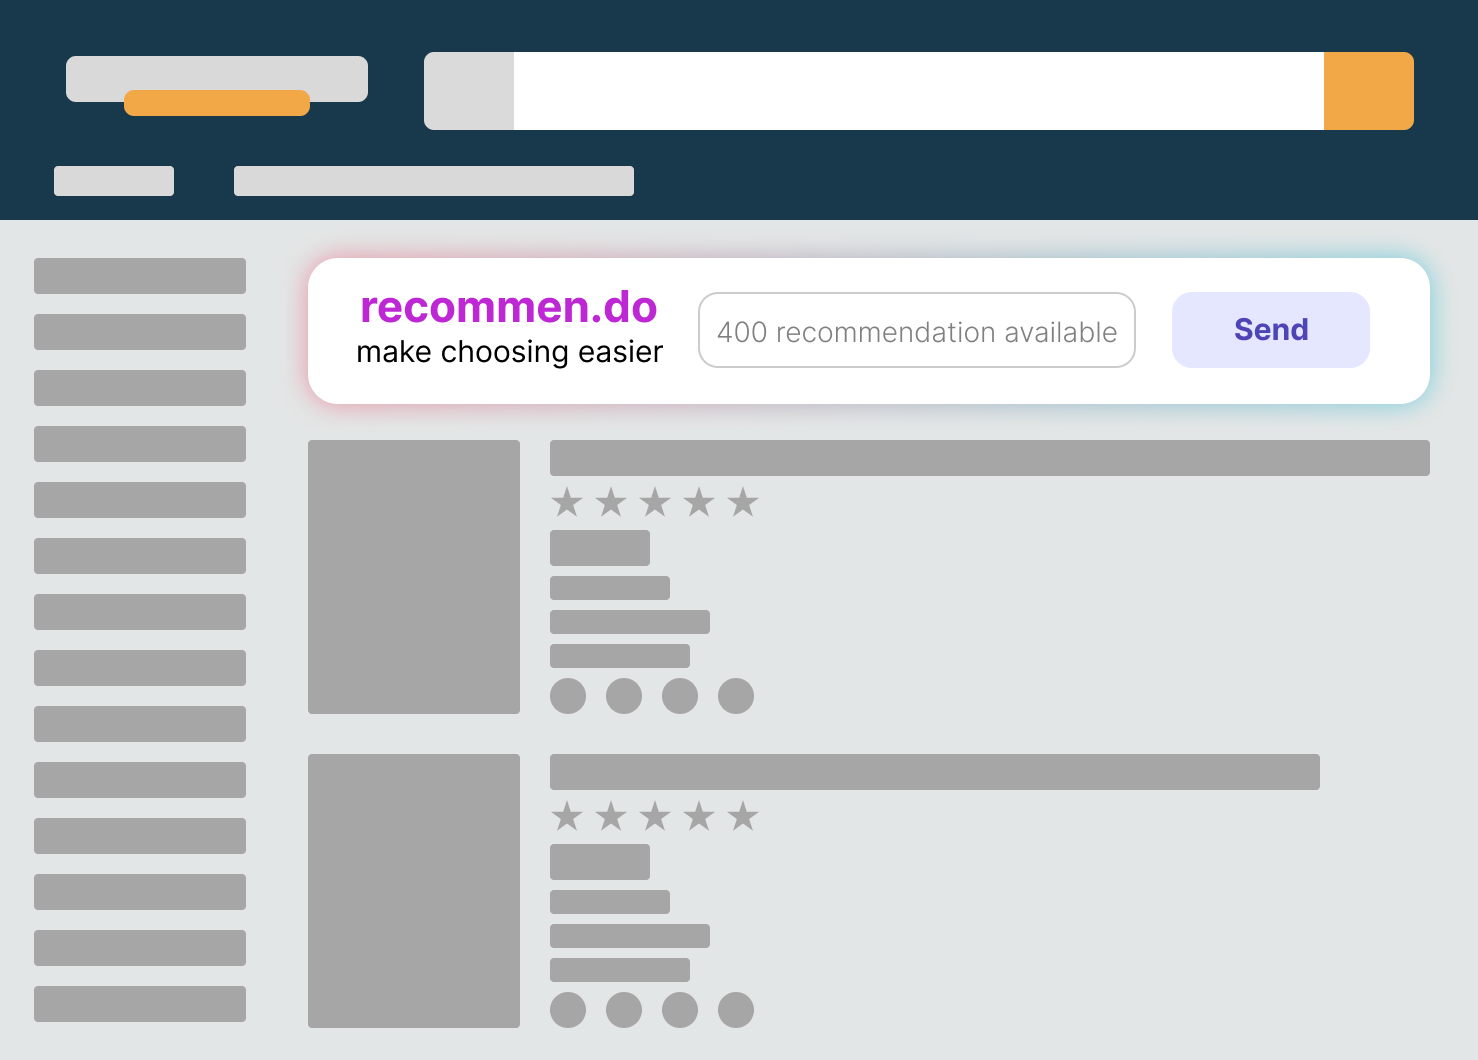
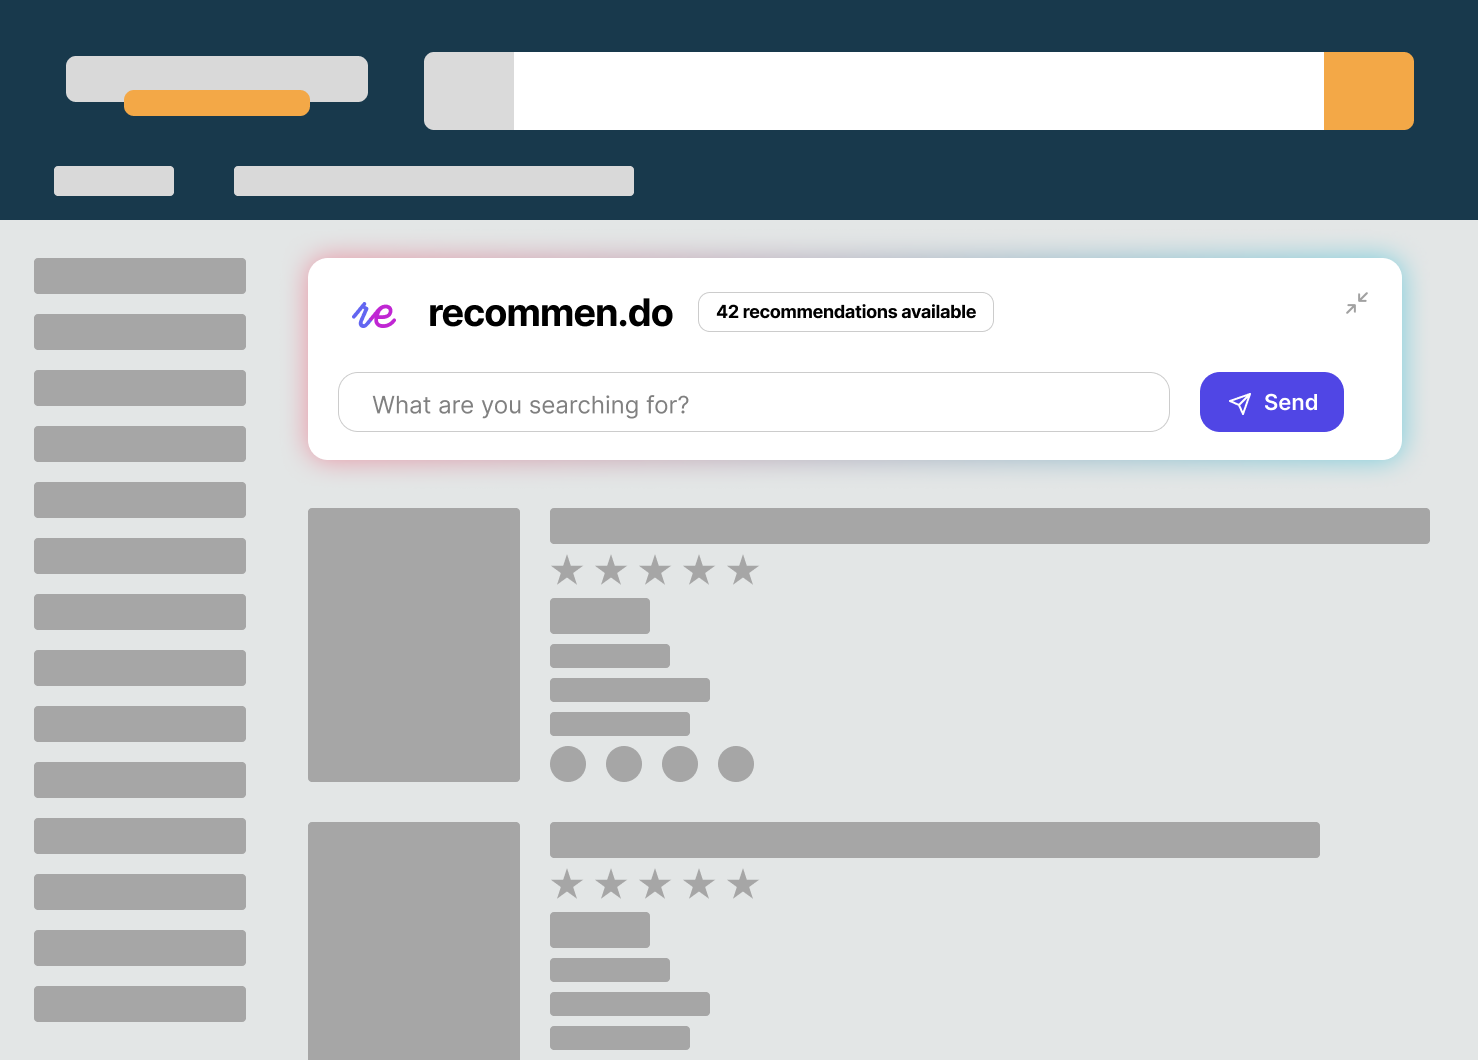
Various small fixers

Changed region(s): [[0.1867, 0.2179, 0.9959, 1.0], [0.2179, 0.2802, 0.747, 0.3425]]

diff --git a/src/app/(mdx)/faq/page.tsx b/src/app/(mdx)/faq/page.tsx
@@ -7,38 +7,36 @@ export default function FAQPage() {
   return (
     <section id="faq_page">
       <div className="mx-auto flex max-w-7xl flex-col gap-y-4 p-4">
-        {/* <FAQ /> */}
-
         <h1 className="text-3xl font-semibold">Frequently Asked Questions</h1>
 
         <Accordion type="single" collapsible className="w-full">
           <AccordionItem value="item-1">
-            <AccordionTrigger>How can I use recommen.do extension?</AccordionTrigger>
+            <AccordionTrigger className="text-left">How can I use recommen.do extension?</AccordionTrigger>
             <AccordionContent>
               To get started with recommen.do, please follow our installation and usage guide. You can find detailed
               instructions{" "}
               <Link href={`${appwriteUrl}/installation`} className="text-primary">
                 here
               </Link>
-              . .
+              .
             </AccordionContent>
           </AccordionItem>
 
           <AccordionItem value="item-2">
-            <AccordionTrigger>
-              What should I do if I exhaust my credits before the end of the current billing cycle?
+            <AccordionTrigger className="text-left">
+              What should I do if I exhaust my recommendations before the end of the current billing cycle?
             </AccordionTrigger>
             <AccordionContent>
-              If you run out of credits before the end of the current billing cycle, don&apos;t worry! You can easily
-              add 50 more recommendations by accessing the &quot;Add 50 more recommendations&quot; option in the usage
-              section of your profile. These additional credits will be valid until the end of your current billing
-              cycle. Alternatively, you can consider upgrading your subscription for the upcoming billing cycle. Just
-              head over to the &quot;Manage subscription&quot; option to modify your plan.
+              If you run out of recommendations before the end of the current billing cycle, don&apos;t worry! You can
+              easily add 50 more recommendations by accessing the &quot;Add 50 more recommendations&quot; option in the
+              usage section of your profile. These additional recommendations will be valid until the end of your
+              current billing cycle. Alternatively, you can consider upgrading your subscription for the upcoming
+              billing cycle. Just head over to the &quot;Manage subscription&quot; option to modify your plan.
             </AccordionContent>
           </AccordionItem>
 
           <AccordionItem value="item-3">
-            <AccordionTrigger>What happens if I delete my account?</AccordionTrigger>
+            <AccordionTrigger className="text-left">What happens if I delete my account?</AccordionTrigger>
             <AccordionContent>
               Deleting your account is a permanent action. Please note that by deleting your account, your active
               subscription will be canceled, and any remaining recommendations will be forfeited.
@@ -46,21 +44,53 @@ export default function FAQPage() {
           </AccordionItem>
 
           <AccordionItem value="item-4">
-            <AccordionTrigger>Do you offer a free trial?</AccordionTrigger>
+            <AccordionTrigger className="text-left">Do you offer a free trial?</AccordionTrigger>
             <AccordionContent>
               Yes, we provide a free trial period for our service. Upon creating an account, you will receive 10
-              complimentary recommendations to explore the features and functionality of our product. These credits can
-              be used during the trial period, which is 30 days.
+              complimentary recommendations to explore the features and functionality of our product. These
+              recommendations can be used during the trial period, which is 30 days.
             </AccordionContent>
           </AccordionItem>
 
           <AccordionItem value="item-5">
-            <AccordionTrigger>Can I cancel my subscription at any time?</AccordionTrigger>
+            <AccordionTrigger className="text-left">Can I cancel my subscription at any time?</AccordionTrigger>
             <AccordionContent>
               Yes, you have the freedom to cancel your subscription at any time. There are no long-term contracts or
               commitments. Simply navigate to the &quot;Manage subscription&quot; section in your profile to cancel your
               subscription. If you decide to cancel your subscription, you will still have access to the remaining
-              credits until the end of the billing cycle.
+              recommendations until the end of the billing cycle.
+            </AccordionContent>
+          </AccordionItem>
+
+          <AccordionItem value="item-6">
+            <AccordionTrigger className="text-left">
+              What happens if I have a subscription active but I switch to API Key mode?
+            </AccordionTrigger>
+            <AccordionContent>
+              While the OpenAI API Key mode is active, the recommendations you consume are not subtracted from your
+              available recommendations. It is not mandatory to have an active subscription if you choose to use your
+              own OpenAI API Key. If you choose so, you can cancel your subscription at any time using the &quot;Manage
+              subscription&quot; option. Alternatively, you can clear your OpenAI API Key and continue using your
+              remaining recommendations.
+            </AccordionContent>
+          </AccordionItem>
+
+          <AccordionItem value="item-7">
+            <AccordionTrigger className="text-left">Can I use my own OpenAI API Key?</AccordionTrigger>
+            <AccordionContent>
+              If you have an OpenAI API key you can get recommendations without having an active subscription. While the
+              OpenAI API Key mode is active, the recommendations you consume are not subtracted from your available
+              recommendations. Use the &quot;OpenAI Api Key&quot; section from the extension to add or clear your OpenAI
+              API Key.
+            </AccordionContent>
+          </AccordionItem>
+
+          <AccordionItem value="item-8">
+            <AccordionTrigger className="text-left">How are recommendations consumed?</AccordionTrigger>
+            <AccordionContent>
+              One recommendation is consumed every time you ask for a recommendation by clicking &quot;Send&quot; in the
+              AI prompt card. At the end of every billing cycle your remaining recommendations expire and new
+              recommendations are added according to your plan.
             </AccordionContent>
           </AccordionItem>
 

diff --git a/src/components/profile/form-apikey.tsx b/src/components/profile/form-apikey.tsx
@@ -2,14 +2,27 @@
 
 import { zodResolver } from "@hookform/resolvers/zod";
 import { useStorage } from "@plasmohq/storage/hook";
+import { useAtomValue } from "jotai";
+import Link from "next/link";
 import { useForm } from "react-hook-form";
 import { z } from "zod";
 
 import { Badge } from "@/components/ui/badge";
 import { Button } from "@/components/ui/button";
+import {
+  Dialog,
+  DialogContent,
+  DialogDescription,
+  DialogFooter,
+  DialogHeader,
+  DialogTitle,
+  DialogTrigger,
+} from "@/components/ui/dialog";
 import { Form, FormControl, FormField, FormItem, FormLabel, FormMessage } from "@/components/ui/form";
 import { Icons } from "@/components/ui/icons";
 import { Input } from "@/components/ui/input";
+import { profileAtom } from "@/lib/atoms/auth";
+import { appwriteUrl } from "@/lib/envClient";
 import { cn } from "@/lib/helpers/utils";
 
 const formSchema = z.object({
@@ -23,6 +36,9 @@ const formSchema = z.object({
 export function FormAPIKey() {
   const [userApiKey, setUserApiKey, { remove }] = useStorage<string>("userApiKey", "");
 
+  const profile = useAtomValue(profileAtom);
+  const hasSubscription = profile ? profile.stripeSubscriptionId !== "none" : false;
+
   // 1. Define your form.
   const form = useForm<z.infer<typeof formSchema>>({
     resolver: zodResolver(formSchema),
@@ -32,10 +48,10 @@ export function FormAPIKey() {
   });
 
   // 2. Define a submit handler.
-  function onSubmit(values: z.infer<typeof formSchema>) {
+  async function onSubmit(values: z.infer<typeof formSchema>) {
     if (!values.userApiKey) return;
 
-    setUserApiKey(values.userApiKey);
+    await setUserApiKey(values.userApiKey);
   }
 
   return (
@@ -76,8 +92,36 @@ export function FormAPIKey() {
             <Icons.remove className="mr-2 h-4 w-4" aria-hidden="true" />
             Remove key
           </Button>
+        ) : hasSubscription ? (
+          <Dialog>
+            <DialogTrigger asChild>
+              <Button type="button" aria-label="Add key" disabled={!form.watch("userApiKey")}>
+                <Icons.key className="mr-2 h-4 w-4" aria-hidden="true" />
+                Add key
+              </Button>
+            </DialogTrigger>
+            <DialogContent className="gap-8">
+              <DialogHeader className="gap-4 text-left">
+                <DialogTitle>Before you proceed</DialogTitle>
+                <DialogDescription>
+                  We have noticed that you have an active subscription. The recommendations you consume using your
+                  OpenAI API Key are not subtracted from your available recommendations. Having an active subscription
+                  is not mandatory in order to use your own OpenAI API Key.
+                </DialogDescription>
+              </DialogHeader>
+              <DialogFooter className="grid grid-cols-2 gap-4">
+                <Button onClick={(...args) => void form.handleSubmit(onSubmit)(...args)}>I understand</Button>
+
+                <Button variant="outline" asChild>
+                  <Link href={`${appwriteUrl}/faq`} target="_blank">
+                    Learn more
+                  </Link>
+                </Button>
+              </DialogFooter>
+            </DialogContent>
+          </Dialog>
         ) : (
-          <Button aria-label="Add key">
+          <Button type="submit" aria-label="Add key" disabled={!form.watch("userApiKey")}>
             <Icons.key className="mr-2 h-4 w-4" aria-hidden="true" />
             Add key
           </Button>

diff --git a/src/app/api/stripe/subscription/[priceId]/route.ts b/src/app/api/stripe/subscription/[priceId]/route.ts
@@ -103,15 +103,10 @@ export async function GET(request: Request, { params }: { params: { priceId: str
         return_url: `${appwriteUrl}/profile`,
       });
 
-      return NextResponse.json(
-        {
-          message: "Stripe billing portal session created.",
-          url: session.url,
-        },
-        {
-          status: 404, // Not Found
-        },
-      );
+      return NextResponse.json({
+        message: "Stripe billing portal session created.",
+        url: session.url,
+      });
     }
 
     const session = await stripe.checkout.sessions.create({

diff --git a/src/components/frontpage/features.tsx b/src/components/frontpage/features.tsx
@@ -96,7 +96,9 @@ export function Features() {
               </svg>
               <div className="ml-5 sm:ml-8">
                 <h3 className="text-base font-semibold sm:text-lg">Use Your API Key</h3>
-                <p className="mt-1">You can leverage the power of OpenAI GPT for free with your own OpenAI API key.</p>
+                <p className="mt-1">
+                  You can leverage the power of OpenAI GPT with your own OpenAI API key at no additional cost.
+                </p>
               </div>
             </motion.div>
 

diff --git a/src/components/profile/card-usage.tsx b/src/components/profile/card-usage.tsx
@@ -69,7 +69,7 @@ export function CardUsage() {
         <CardContent className="grid gap-4">
           <Label className="flex flex-col gap-y-2">
             <span>Recommendations</span>
-            <span className="font-normal leading-snug text-muted-foreground">{profile.credits} remaining</span>
+            <span className="font-normal leading-snug text-muted-foreground">{profile.credits} available</span>
           </Label>
           {!hasSubscription && profile.credits !== 0 && (
             <Label className="flex flex-col gap-y-2">

diff --git a/src/components/extension/prompt-card.tsx b/src/components/extension/prompt-card.tsx
@@ -47,7 +47,7 @@ export default function PromptCard({ products, onClose }: PromptCardProps) {
                 {profile.credits === 0 && (
                   <Icons.alert className="mr-[8px] h-[16px] w-[16px] text-orange-500" aria-hidden="true" />
                 )}
-                {profile.credits} recommendations remaining
+                {profile.credits} recommendations available
               </Badge>
             )}
             {browserName === "Brave" && !profile && (

diff --git a/src/components/frontpage/hero.tsx b/src/components/frontpage/hero.tsx
@@ -72,7 +72,7 @@ export function Hero() {
               <Image src="/browsers/Vivaldi.svg" width={64} height={64} alt="Download extension for Vivaldi browser" />
             </div>
           </div>
-          <div className="lg:w-[60rem]">
+          <div className="lg:w-[58rem]">
             <Image
               className="w-full rounded-xl shadow-xl"
               src="/frontpage/hero-img.png"
